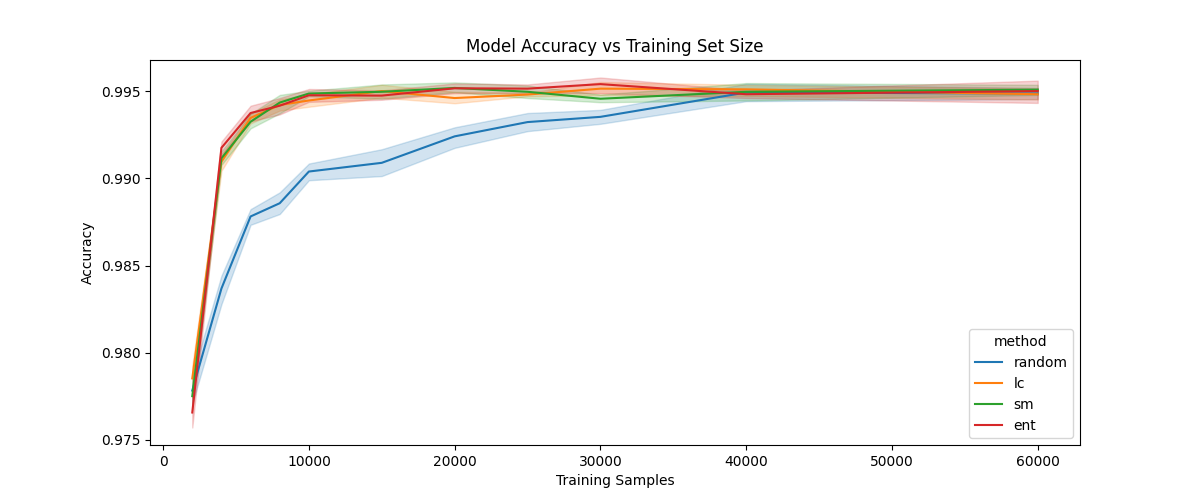
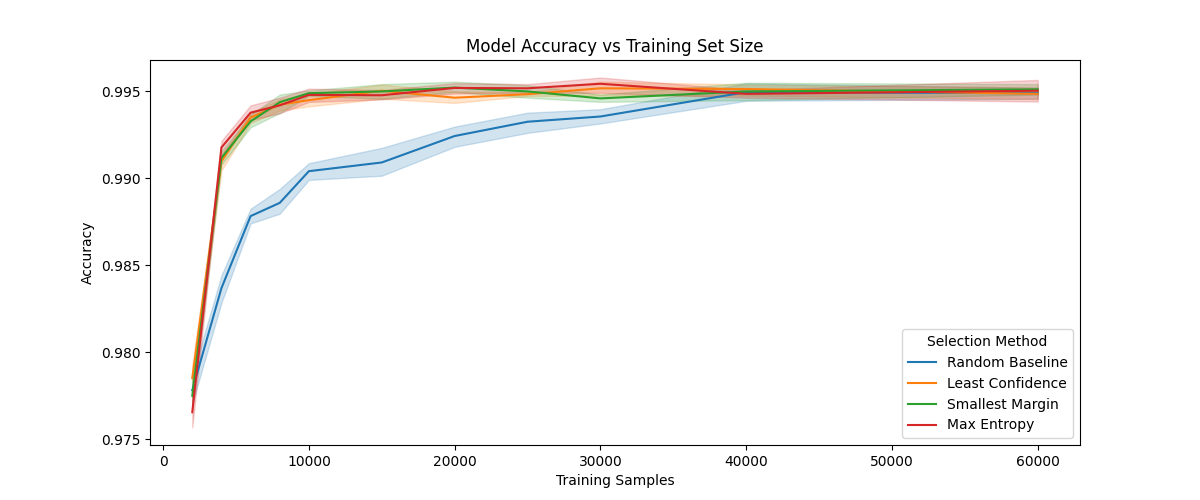
update plot labels

diff --git a/exp_run.py b/exp_run.py
@@ -59,6 +59,19 @@ if __name__ == "__main__":
     metrics.to_csv("metrics.csv")
 
     print("generating plot ...")
+
+    def metric_label(x):
+        if x == 'random':
+            return "Random Baseline"
+        elif x == 'lc':
+            return "Least Confidence"
+        elif x == 'sm':
+            return "Smallest Margin"
+        elif x == 'ent':
+            return "Max Entropy"
+
+    metrics['method'] = metrics['method'].map(metric_label)
+
     plt.figure(figsize=(12,5))
     fig = sns.lineplot(metrics, 
         x='size', 
@@ -69,4 +82,5 @@ if __name__ == "__main__":
     plt.xlabel("Training Samples")
     plt.yticks([0.975, 0.98, 0.985, 0.99, 0.995])
     plt.title("Model Accuracy vs Training Set Size")
+    plt.legend(title="Selection Method")
     plt.savefig("plot.png")
